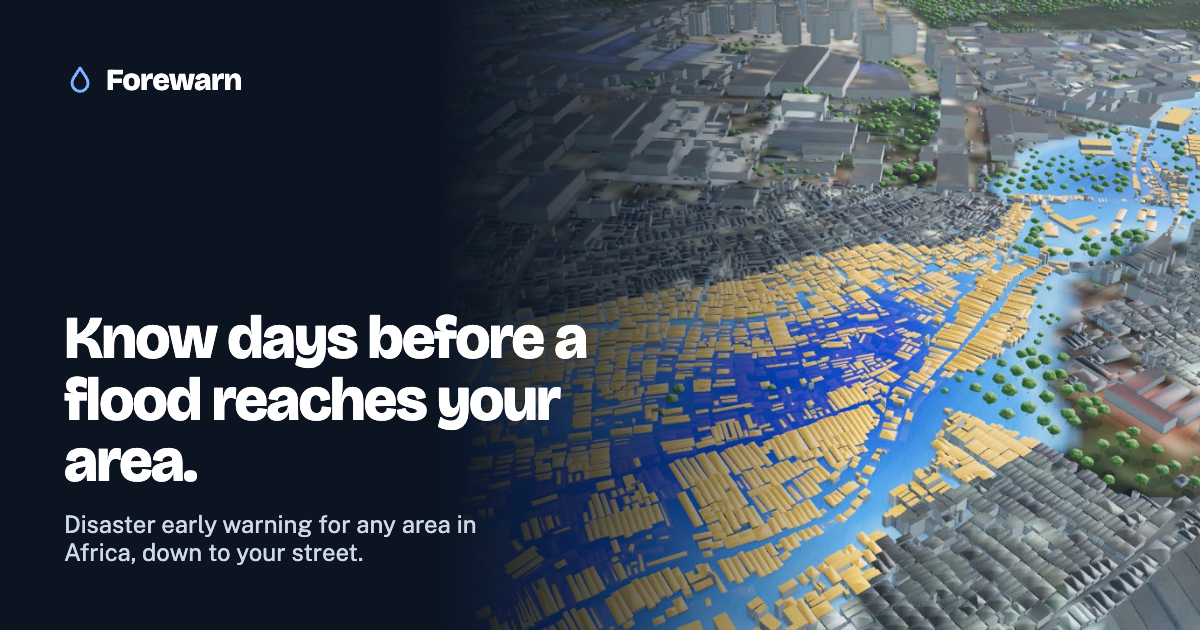
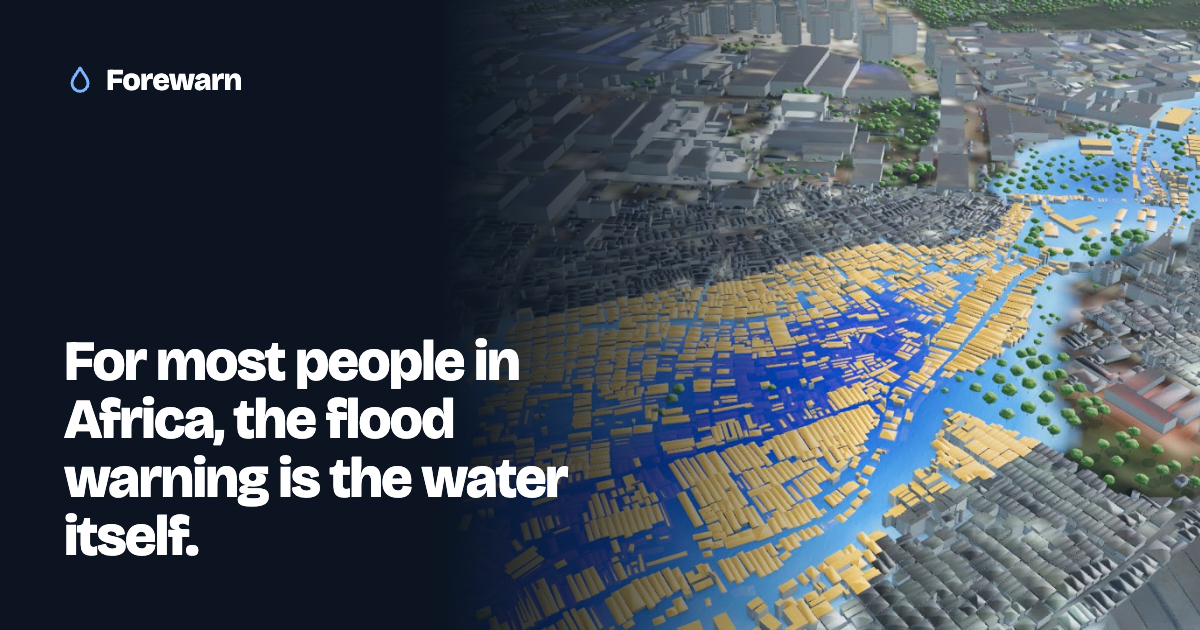
Give the share image the story line, so it no longer repeats the title

Changed region(s): [[0.0308, 0.4825, 0.4933, 0.9048]]

diff --git a/app/index.html b/app/index.html
@@ -20,14 +20,14 @@
   <meta property="og:site_name" content="Forewarn" />
   <meta property="og:url" content="https://forewarn.dawnstackai.com/" />
   <meta property="og:title" content="Forewarn: know days before a flood reaches your area" />
-  <meta property="og:description" content="Disaster early warning for any area in Africa, down to your street. Free." />
+  <meta property="og:description" content="Free flood warnings for your street, farm or village, anywhere in Africa. Ask the agent, watch the last flood in 3D, report water with a photo." />
   <meta property="og:locale" content="en_GB" />
   <meta property="og:image" content="https://forewarn.dawnstackai.com/og.jpg" />
   <meta property="og:image:secure_url" content="https://forewarn.dawnstackai.com/og.jpg" />
   <meta property="og:image:width" content="1200" />
   <meta property="og:image:height" content="630" />
   <meta property="og:image:type" content="image/jpeg" />
-  <meta property="og:image:alt" content="A 3D model of floodwater rising over a Nairobi neighbourhood, beside the words: Know days before a flood reaches your area." />
+  <meta property="og:image:alt" content="A 3D model of floodwater rising over a Nairobi neighbourhood, beside the words: For most people in Africa, the flood warning is the water itself." />
   <meta property="og:video" content="https://forewarn.dawnstackai.com/og-video.mp4" />
   <meta property="og:video:secure_url" content="https://forewarn.dawnstackai.com/og-video.mp4" />
   <meta property="og:video:type" content="video/mp4" />
@@ -36,7 +36,7 @@
   <meta name="twitter:card" content="summary_large_image" />
   <meta name="twitter:site" content="@software_artist" />
   <meta name="twitter:title" content="Forewarn: know days before a flood reaches your area" />
-  <meta name="twitter:description" content="Disaster early warning for any area in Africa, down to your street. Free." />
+  <meta name="twitter:description" content="Free flood warnings for your street, farm or village, anywhere in Africa. Ask the agent, watch the last flood in 3D, report water with a photo." />
   <meta name="twitter:image" content="https://forewarn.dawnstackai.com/og.jpg" />
   <meta name="twitter:image:alt" content="A 3D model of floodwater rising over a Nairobi neighbourhood." />
 

diff --git a/design/og-card.html b/design/og-card.html
@@ -9,12 +9,12 @@
   .text { position: absolute; left: 64px; top: 64px; bottom: 64px; width: 600px; display: flex; flex-direction: column; }
   .brand { display: flex; gap: 10px; align-items: center; font: 800 30px/1 'Bricolage Grotesque'; letter-spacing: -0.02em; }
   .brand svg { width: 32px; height: 32px; color: #7fb2ff; }
-  h1 { font: 800 60px/1.02 'Bricolage Grotesque'; letter-spacing: -0.03em; margin: auto 0 18px; }
+  h1 { font: 800 56px/1.04 'Bricolage Grotesque'; letter-spacing: -0.03em; margin: auto 0 0; }
   p { margin: 0; font-size: 24px; color: #cfd9e5; max-width: 30ch; }
 </style></head><body>
 <div class="card"><div class="shot"></div><div class="text">
   <div class="brand"><svg viewBox="0 0 24 24" fill="none" stroke="currentColor" stroke-width="2.2" stroke-linecap="round" stroke-linejoin="round"><path d="M12 3C9 8 6 11 6 14.5a6 6 0 0 0 12 0C18 11 15 8 12 3z"/></svg>Forewarn</div>
-  <h1>Know days before a flood reaches your area.</h1>
-  <p>Disaster early warning for any area in Africa, down to your street.</p>
+  <h1>For most people in Africa, the flood warning is the water itself.</h1>
+  
 </div></div>
 </body></html>
